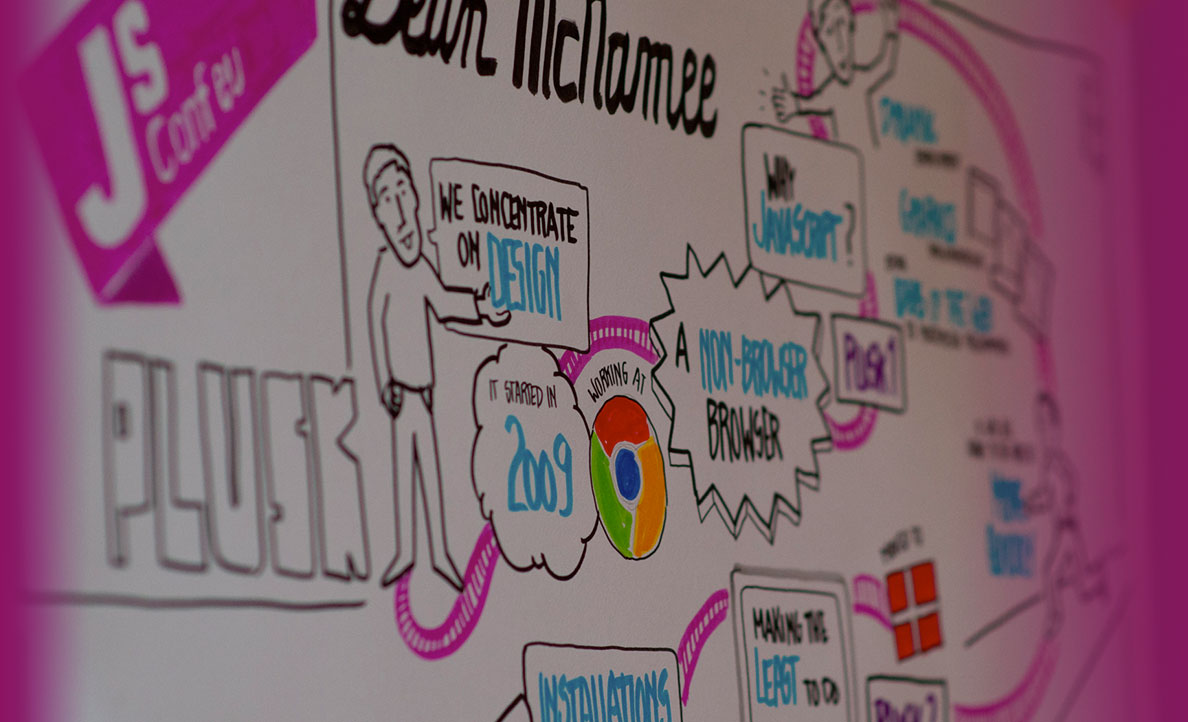
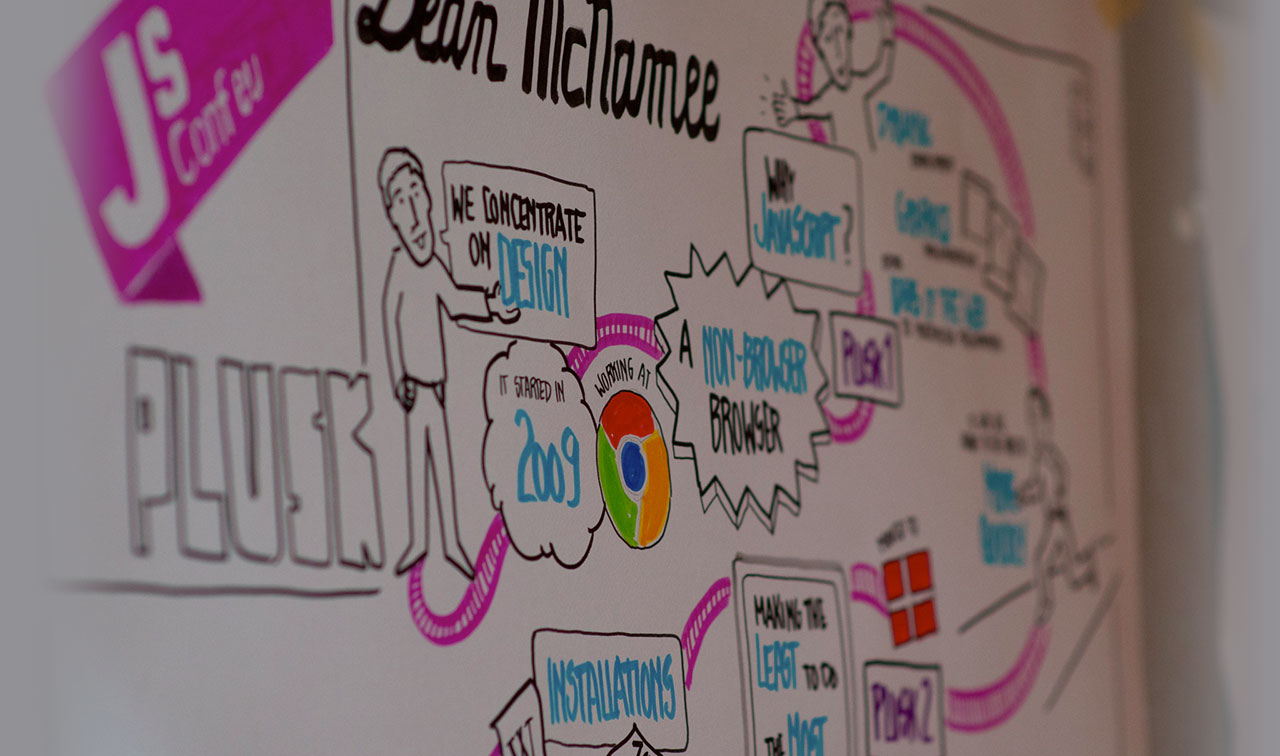
more images / fixing colors

diff --git a/stylesheets/screen.css b/stylesheets/screen.css
@@ -351,18 +351,32 @@ h4 {
 .background6 .stage {
   background-image: url("/img/top_draw.jpg");
   background-position: 50% 70%;
-  background-color: #97005f;
+  background-color: #8d1061;
+}
+
+/* line 219, ../sass/imports/main.scss */
+.background7 .stage {
+  background-image: url("/img/top_bubble.jpg");
+  background-position: 50% 70%;
+  background-color: #670141;
+}
+
+/* line 224, ../sass/imports/main.scss */
+.background7 .stage {
+  background-image: url("/img/top_bollocks.jpg");
+  background-position: 50% 70%;
+  background-color: #34003e;
 }
 
 /* main content area */
-/* line 223, ../sass/imports/main.scss */
+/* line 236, ../sass/imports/main.scss */
 nav {
   text-transform: uppercase;
   letter-spacing: .05em;
 }
 
 /* sponsors */
-/* line 228, ../sass/imports/main.scss */
+/* line 241, ../sass/imports/main.scss */
 .sponsors {
   padding: 2em 0;
   border-top: 1px solid #f5e8d7;
@@ -370,7 +384,7 @@ nav {
 }
 
 /* footer */
-/* line 235, ../sass/imports/main.scss */
+/* line 248, ../sass/imports/main.scss */
 footer {
   padding: 2em 0;
   border-top: 0.5em solid #c6e3d9;
@@ -380,22 +394,22 @@ footer {
 }
 
 /* typography in main content area */
-/* line 245, ../sass/imports/main.scss */
+/* line 258, ../sass/imports/main.scss */
 .main_column p, .main_column ul, .main_column ol, .main_column dl, .main_column hr {
   margin-bottom: 1.5em;
 }
-/* line 249, ../sass/imports/main.scss */
+/* line 262, ../sass/imports/main.scss */
 .main_column ul {
   list-style: none;
 }
-/* line 251, ../sass/imports/main.scss */
+/* line 264, ../sass/imports/main.scss */
 .main_column ul li {
   position: relative;
   margin-left: 1.5em;
   padding-left: 1.5em;
   text-indent: -.7em;
 }
-/* line 257, ../sass/imports/main.scss */
+/* line 270, ../sass/imports/main.scss */
 .main_column ul > li:before {
   content: "";
   display: inline-block;
@@ -407,18 +421,18 @@ footer {
   background-color: #c6e3d9;
 }
 
-/* line 273, ../sass/imports/main.scss */
+/* line 286, ../sass/imports/main.scss */
 blockquote {
   margin: 2.5em 1.5em 3em;
   color: #4c0025;
 }
-/* line 276, ../sass/imports/main.scss */
+/* line 289, ../sass/imports/main.scss */
 blockquote p {
   font-style: italic;
 }
 
 /* links */
-/* line 285, ../sass/imports/main.scss */
+/* line 298, ../sass/imports/main.scss */
 a,
 a:link,
 a:visited {
@@ -430,7 +444,7 @@ a:visited {
   transition: color 0.1s ease-in-out, border-color 0.1s ease-in-out, background-color 0.1s ease-in-out;
 }
 
-/* line 293, ../sass/imports/main.scss */
+/* line 306, ../sass/imports/main.scss */
 a:hover,
 a:active,
 a:focus {
@@ -439,12 +453,12 @@ a:focus {
   text-decoration: none;
 }
 
-/* line 301, ../sass/imports/main.scss */
+/* line 314, ../sass/imports/main.scss */
 nav ul {
   margin: 1em 0;
   text-align: center;
 }
-/* line 305, ../sass/imports/main.scss */
+/* line 318, ../sass/imports/main.scss */
 nav li {
   display: inline-block;
   padding: 0.2em 0.5em;
@@ -453,12 +467,12 @@ nav li {
   font-weight: bold;
 }
 
-/* line 313, ../sass/imports/main.scss */
+/* line 326, ../sass/imports/main.scss */
 .main {
   padding: 3em 0;
 }
 
-/* line 317, ../sass/imports/main.scss */
+/* line 330, ../sass/imports/main.scss */
 .main_column {
   max-width: 640px;
   margin: 0 auto;
@@ -466,25 +480,25 @@ nav li {
   overflow: hidden;
 }
 
-/* line 324, ../sass/imports/main.scss */
+/* line 337, ../sass/imports/main.scss */
 section {
   margin: 0 0 4.5em 0;
   padding: 0 3%;
   clear: both;
 }
 
-/* line 331, ../sass/imports/main.scss */
+/* line 344, ../sass/imports/main.scss */
 article {
   margin-bottom: 4.5em;
 }
-/* line 333, ../sass/imports/main.scss */
+/* line 346, ../sass/imports/main.scss */
 article header {
   margin-bottom: 1em;
   border-bottom: 0.1875em solid #c6e3d9;
 }
 
 /* fluid iframes */
-/* line 340, ../sass/imports/main.scss */
+/* line 353, ../sass/imports/main.scss */
 .embed_container {
   position: relative;
   padding-bottom: 56.25%;
@@ -493,7 +507,7 @@ article header {
   overflow: hidden;
 }
 
-/* line 349, ../sass/imports/main.scss */
+/* line 362, ../sass/imports/main.scss */
 .embed_container iframe,
 .embed_container img {
   position: absolute;
@@ -503,12 +517,12 @@ article header {
   height: 100%;
 }
 
-/* line 357, ../sass/imports/main.scss */
+/* line 370, ../sass/imports/main.scss */
 .person {
   position: relative;
 }
 
-/* line 361, ../sass/imports/main.scss */
+/* line 374, ../sass/imports/main.scss */
 .person div {
   position: absolute;
   bottom: 10px;
@@ -516,12 +530,12 @@ article header {
   color: #fbf6ef;
 }
 
-/* line 368, ../sass/imports/main.scss */
+/* line 381, ../sass/imports/main.scss */
 .person a {
   color: #fbf6ef;
 }
 
-/* line 372, ../sass/imports/main.scss */
+/* line 385, ../sass/imports/main.scss */
 .date {
   color: #808f8c;
   font-size: .875em;

diff --git a/sass/imports/main.scss b/sass/imports/main.scss
@@ -214,8 +214,21 @@ h4 {
 .background6 .stage {
   background-image: url('/img/top_draw.jpg');
   background-position: 50% 70%;
-  background-color: #97005f;
+  background-color: #8d1061;
 }
+.background7 .stage {
+  background-image: url('/img/top_bubble.jpg');
+  background-position: 50% 70%;
+  background-color: #670141;
+}
+.background7 .stage {
+  background-image: url('/img/top_bollocks.jpg');
+  background-position: 50% 70%;
+  background-color: #34003e;
+}
+
+
+
 
 
 
